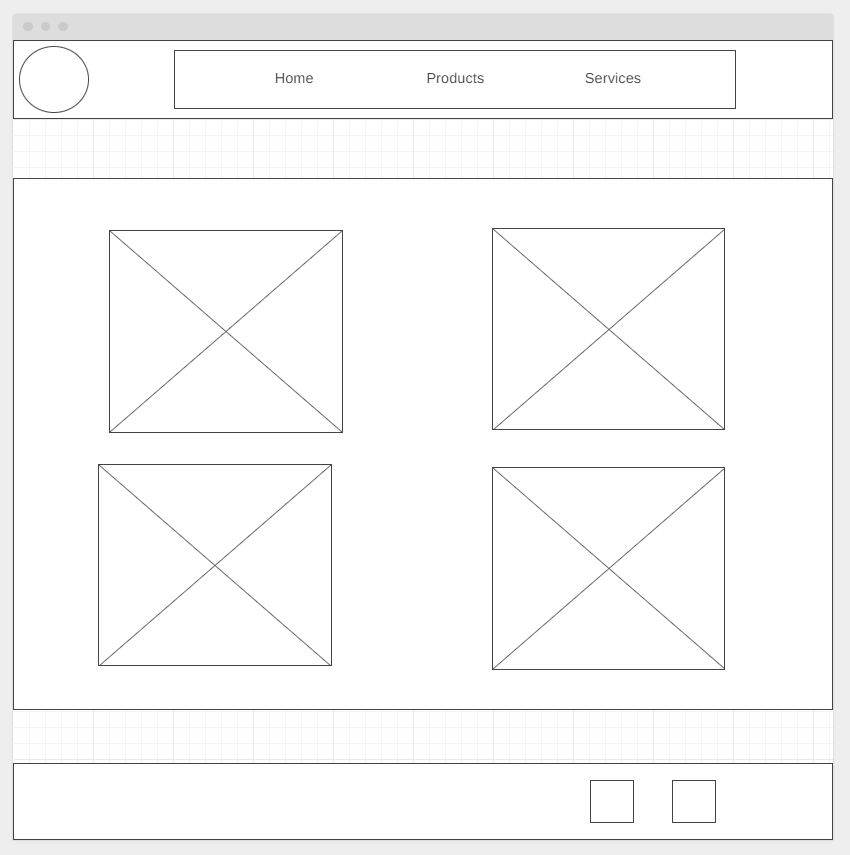
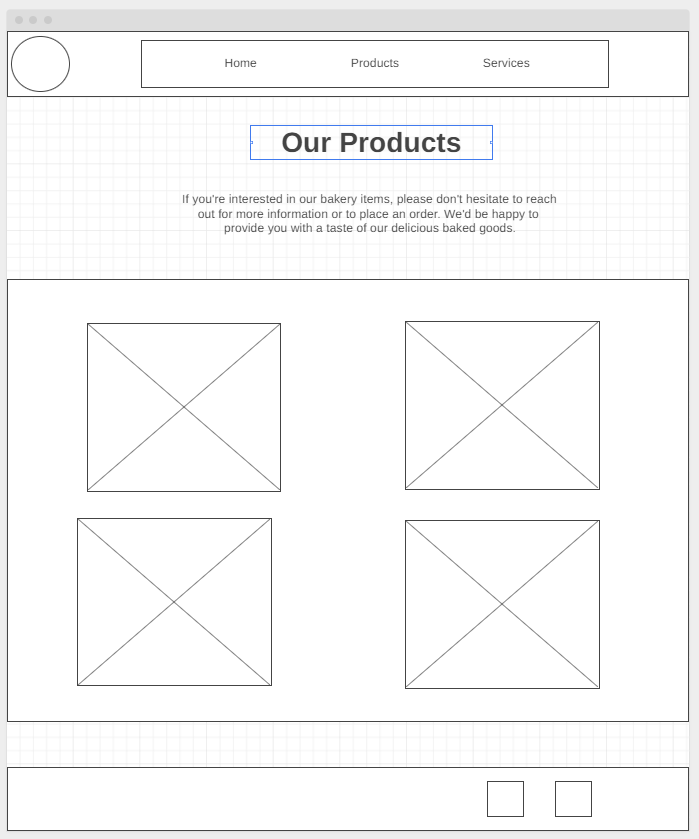
lpm

diff --git a/dec/site-plan.html b/dec/site-plan.html
@@ -12,7 +12,6 @@
             <h1>DEC Site Plan</h1>
             <h2>Esteban Zarate</h2>
             <h2>WDD 130-13</h2>
-            <!-- In the header above, add the name or your site, your name and class number. For example if you are in section 3 you would put WDD 130.03 -->
         </header>
         <main>
 
@@ -20,16 +19,15 @@
             <hr>
             <h2>Overview</h2>
             <h3>Purpose</h3>
-            <p>Offer bakery products and service</p> <!-- change this -->
+            <p>Offer bakery products and services</p>
 
 
             <h3>Audience</h3>
-            <p>Everybody who wants buy bakery products or who will adquire some bakery service</p> <!-- change this -->
+            <p>Everybody who wants buy bakery products or who will adquire some bakery service</p>
 
             <hr>
             <h2>Branding</h2>
             <h3>Website Logo</h3>
-            <!-- Replace this with some sort of logo for your site.  A logo can be as simple as the name of your site in a nice font :) -->
             <img src="images/logo.avif" alt="Logo image">
             <hr>
             <h2>
@@ -72,20 +70,20 @@
             <!-- Choose a font for your paragraphs (body copy) and headlines. What font(s) have you chosen? Why did you choose what you did?  Make sure to review the list of web safe fonts at W3Schools.org as a starting point.  Think also about which of your colors above you might use for background and font colors. -->
 
             <h4>
-                Heading Font: Open Sans <!-- change this -->
+                Heading Font: Open Sans
             </h4>
             <h4>
-                Paragraph Font: Roboto <!-- change this -->
+                Paragraph Font: Roboto
             </h4>
             <h3>
                 Normal paragraph example
             </h3>
             <p>
-                Lorem ipsum dolor sit amet, consectetur adipiscing elit, sed do eiusmod tempor incididunt ut labore et
-                dolore magna aliqua. Ut enim ad minim veniam, quis nostrud exercitation ullamco laboris nisi ut aliquip
-                ex ea commodo consequat. Duis aute irure dolor in reprehenderit in voluptate velit esse cillum dolore eu
-                fugiat nulla pariatur. Excepteur sint occaecat cupidatat non proident, sunt in culpa qui officia
-                deserunt mollit anim id est laborum.
+                We are a local bakery that takes pride in baking fresh and delicious items daily. From classic breads to
+                decadent
+                pastries, we have something for everyone. Our ingredients are carefully selected to ensure the quality
+                and flavor of
+                each item we offer.
             </p>
             <h3>
                 Colored paragraph example
@@ -116,10 +114,10 @@
                     Home
                 </div>
                 <div class="sm-page2">
-                    Products <!-- change this -->
+                    Products
                 </div>
                 <div class="sm-page3">
-                    Services <!-- change this -->
+                    Services
                 </div>
 
                 <div class="top">
@@ -141,12 +139,24 @@
             </h2>
             <h3>Home page</h3>
             <p>Images for the Home page</p>
+            <p>We are a local bakery that takes pride in baking fresh and delicious items daily. From classic breads to
+                decadent
+                pastries, we have something for everyone. Our ingredients are carefully selected to ensure the quality
+                and flavor of
+                each item we offer.</p>
+            <p>We offer a wide range of baked goods, including breads, pastries, cakes, and more. All of our items are
+                made from
+                scratch and baked to perfection, ensuring a satisfying and memorable experience for each of our
+                customers.</p>
             <img src="images/bak1.jpg" alt="image for homepage">
             <img src="images/bak2.jpeg" alt="image for homepage">
 
             </ul>
             <h3>Products</h3>
             <p>Images for Products page</p>
+            <p>If you're interested in our bakery items, please don't hesitate to reach out for more information or to
+                place an order.
+                We'd be happy to provide you with a taste of our delicious baked goods.</p>
             <img src="images/bak3.jpeg" alt="image for page">
             <img src="images/bak4.webp" alt="image for page">
 
@@ -154,7 +164,35 @@
             <h3>Services</h3>
             <p>Images for Services page</p>
             <img src="images/bak5.jpeg" alt="image for page3">
+            pWe would like to help make your birthday celebration even sweeter with our delicious and beautiful birthday
+            cakes and
+            treats. Our bakery specializes in creating custom cakes that are tailored to your individual tastes and
+            preferences,
+            ensuring that your special day is truly unforgettable.
+
+            We offer a wide range of cake flavors, designs, and sizes, so whether you're looking for a classic birthday
+            cake or
+            something more unique, we have you covered. In addition to cakes, we also offer other sweet treats such as
+            cupcakes,
+            cookies, and more to complete your birthday celebration.
+
+            If you're interested in our bakery's birthday services, please don't hesitate to reach out for more
+            information or to
+            schedule a tasting. We'd love to be a part of your special day.
             <img src="images/bak6.webp" alt="image for page3">
+            <p>Our bakery specializes in creating beautiful and delicious wedding cakes and desserts that not only look
+                stunning, but
+                also taste amazing. We use only the freshest and finest ingredients to ensure the highest quality, and
+                we have a wide
+                range of flavors and designs to choose from.
+
+                In addition to wedding cakes, we also offer a variety of other desserts, such as cupcakes, macarons, and
+                more, to create
+                a memorable and mouth-watering dessert table for your guests.
+
+                If you're interested in our bakery's wedding services, please don't hesitate to reach out for more
+                information or to
+                schedule a tasting. We'd be honored to be a part of your big day.</p>
 
             </ul>
             <hr>
@@ -165,21 +203,12 @@
                 Create three wireframes for your site. One for each page and list them here</p>
 
             <h3>Home</h3>
-            <p>
-                [Any additional details about home that the wireframe does not make clear]
-            </p>
             <img src="images/wf_home.png" alt="home page wireframe">
 
             <h3>Products</h3>
-            <p>
-                [Any additional details about page 2 that the wireframe does not make clear]
-            </p>
             <img src="images/wf_products.png" alt="products wireframe">
 
             <h3>Services</h3>
-            <p>
-                [Any additional details about page 3 that the wireframe does not make clear]
-            </p>
             <img src="images/wf_services.png" alt="services wireframe">
         </main>
     </body>
